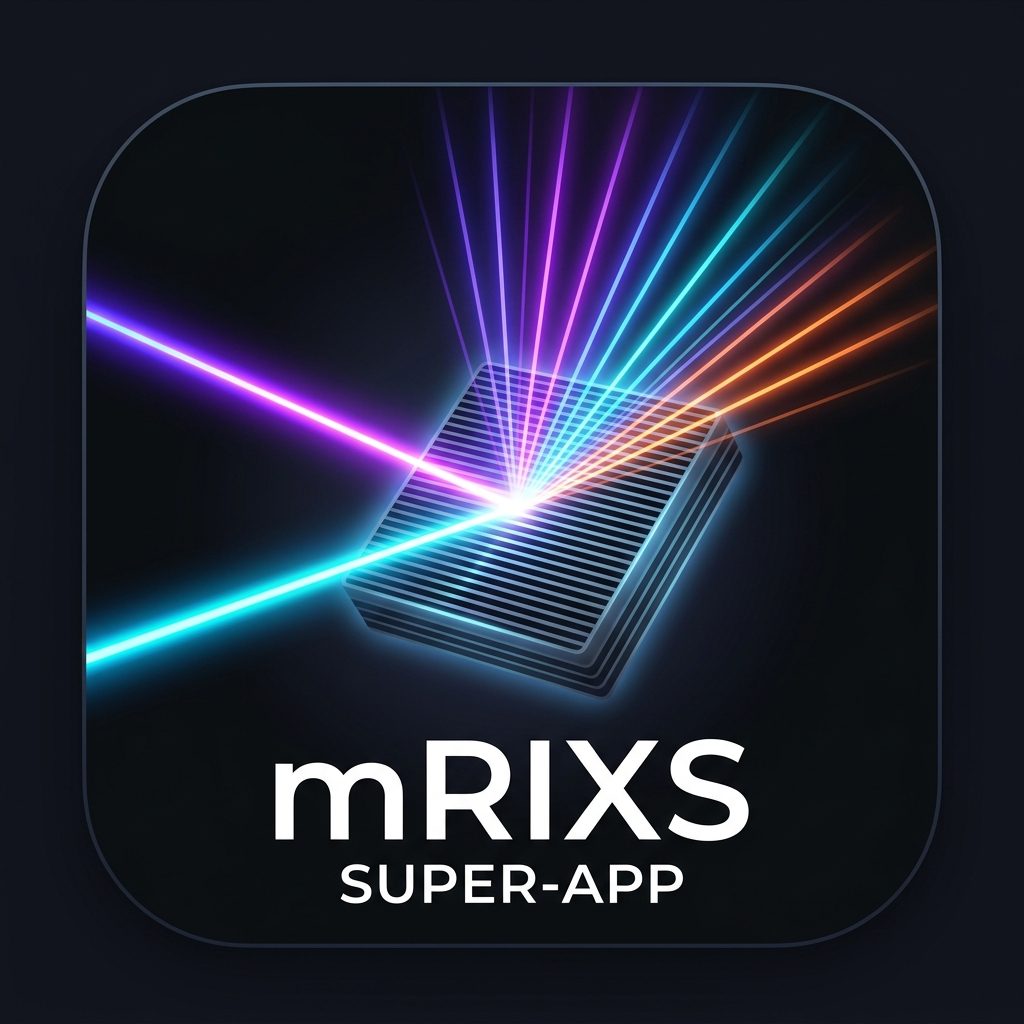
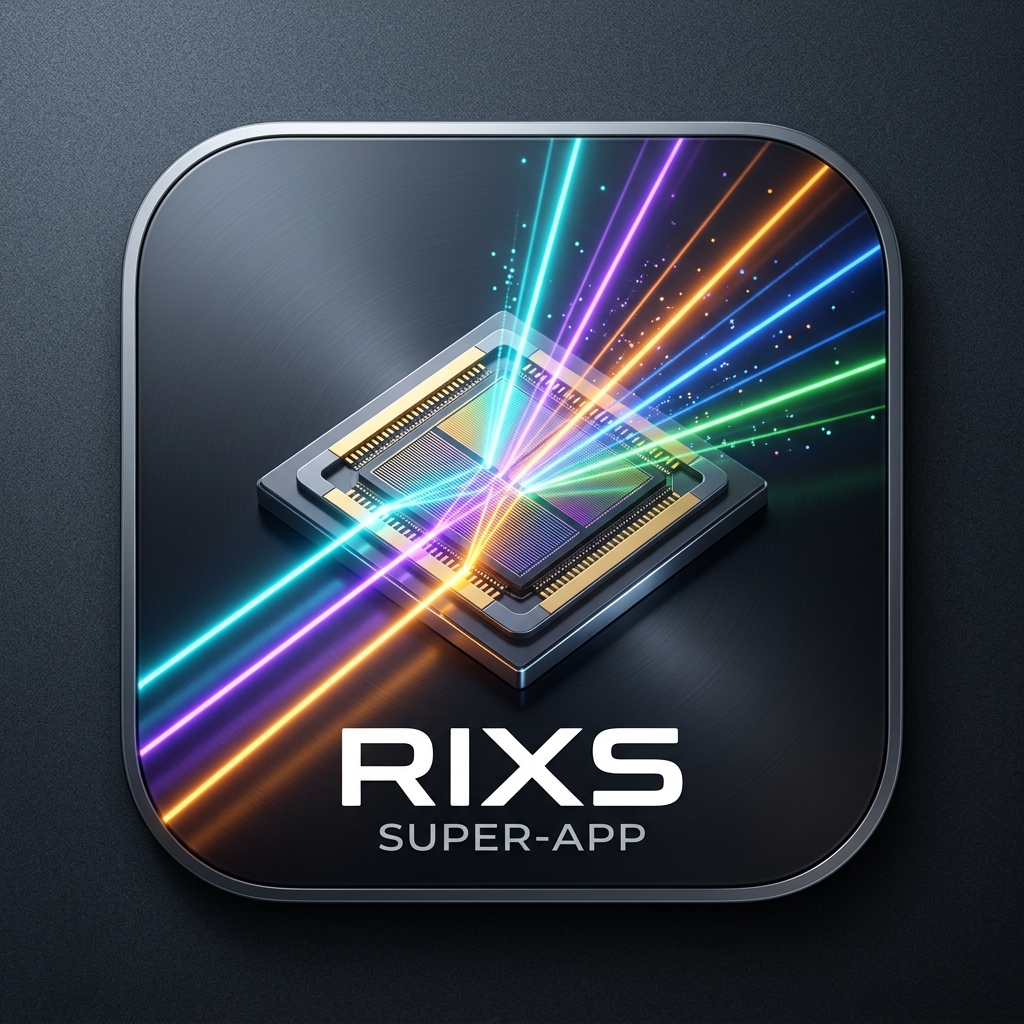
Refactor mRIXS into RIXS through entire codebase

diff --git a/rixs_app/ui/agent_sidebar/templates/chat.html b/rixs_app/ui/agent_sidebar/templates/chat.html
@@ -823,7 +823,7 @@ function clearAll() {
 <body>
     <div id="welcome-card" class="welcome-card">
         <div class="welcome-badge">🤖 Beamline AI Assistant</div>
-        <div class="welcome-title">mRIXS Co-Pilot</div>
+        <div class="welcome-title">RIXS Co-Pilot</div>
         <div class="welcome-subtitle">Directly query datasets, trigger sub-pixel alignment, and calibrate mirror pitch focus.</div>
         
         <div class="quick-chips-grid">

diff --git a/create_shortcut.py b/create_shortcut.py
@@ -1,6 +1,6 @@
 #!/usr/bin/env python3
 """
-create_shortcut.py — Automated Desktop Shortcut Creator for mRIXS Super-App.
+create_shortcut.py — Automated Desktop Shortcut Creator for RIXS Super-App.
 
 Uses `pyshortcuts` to create a cross-platform Desktop shortcut (Windows .lnk, 
 macOS .app bundle, Linux .desktop) that launches `run.py` directly without 
@@ -15,7 +15,7 @@ NOTE FOR MACOS VS WINDOWS:
 Usage:
     python3 create_shortcut.py --terminal            # Recommended on macOS
     python create_shortcut.py                         # Standard usage on Windows
-    python3 create_shortcut.py --icon rixs_app/assets/icon.png --name "mRIXS Super-App"
+    python3 create_shortcut.py --icon rixs_app/assets/icon.png --name "RIXS Super-App"
 """
 
 import sys
@@ -74,7 +74,7 @@ def fix_mac_app_icon(app_path, icon_png_path):
             import re
             content = re.sub(
                 r"<key>CFBundleIconFile</key>\s*<string>[^<]*</string>",
-                f"<key>CFBundleIconFile</key>\n    <string>{os.path.basename(icns_path if os.path.exists(icns_path) else 'mRIXS_Super-App.icns')}</string>",
+                f"<key>CFBundleIconFile</key>\n    <string>{os.path.basename(icns_path if os.path.exists(icns_path) else 'RIXS_Super-App.icns')}</string>",
                 content
             )
 
@@ -99,10 +99,10 @@ def main():
     default_icon = primary_icon if os.path.exists(primary_icon) else fallback_icon
 
     parser = argparse.ArgumentParser(
-        description="Create Desktop shortcut for mRIXS Super-App using pyshortcuts.",
+        description="Create Desktop shortcut for RIXS Super-App using pyshortcuts.",
         epilog="Note for macOS: Use --terminal flag to avoid macOS Gatekeeper Automator crashes. Windows does not need this flag."
     )
-    parser.add_argument("--name", type=str, default="mRIXS Super-App", help="Shortcut display name")
+    parser.add_argument("--name", type=str, default="RIXS Super-App", help="Shortcut display name")
     parser.add_argument("--script", type=str, default=default_script, help="Path to run.py entry point")
     parser.add_argument("--icon", type=str, default=default_icon if os.path.exists(default_icon) else None, help="Path to custom icon (.png, .ico, .icns)")
     parser.add_argument("--terminal", action="store_true", help="Launch app inside a terminal window (Recommended on macOS to bypass Gatekeeper crashes)")
@@ -146,7 +146,7 @@ def main():
             fix_mac_app_icon(app_path, icon_path)
 
         print("\n✅ Success! Desktop shortcut successfully created!")
-        print("   Lab staff can now double-click the shortcut on their Desktop to launch the mRIXS Super-App.")
+        print("   Lab staff can now double-click the shortcut on their Desktop to launch the RIXS Super-App.")
     
     except Exception as e:
         print(f"\n❌ Error creating shortcut: {e}")

diff --git a/rixs_app/main.py b/rixs_app/main.py
@@ -2,7 +2,7 @@
 
 Replaces the CustomTkinter ``RixsApp`` with a ``QMainWindow``.
 Views are managed via a ``QStackedWidget`` for zero-cost hidden frames.
-The LLM Agent Sidebar ("mRIXS Co-Pilot") is integrated as a collapsible
+The LLM Agent Sidebar ("RIXS Co-Pilot") is integrated as a collapsible
 right pane via ``QSplitter``.
 """
 
@@ -55,10 +55,10 @@ _VIEW_NAMES = {
 
 
 class RixsApp(QMainWindow):
-    """Main application window for the mRIXS Super-App.
+    """Main application window for the RIXS Super-App.
 
     Manages navigation between the 8 primary views and hosts the
-    collapsible LLM Agent Sidebar (mRIXS Co-Pilot).
+    collapsible LLM Agent Sidebar (RIXS Co-Pilot).
 
     Args:
         show_window: Whether to show the window after construction. Set
@@ -72,7 +72,7 @@ class RixsApp(QMainWindow):
             show_window: Whether to call show() at the end of __init__.
         """
         super().__init__()
-        self.setWindowTitle("mRIXS Super-App — Advanced X-ray Spectroscopy Suite")
+        self.setWindowTitle("RIXS Super-App — Advanced X-ray Spectroscopy Suite")
         self.resize(1200, 800)
 
         # Apply global dark theme
@@ -146,7 +146,7 @@ class RixsApp(QMainWindow):
         # Co-Pilot toggle button (reparented into each view's navbar on switch)
         self._sidebar_toggle = QPushButton("🤖 Co-Pilot")
         self._sidebar_toggle.setFixedHeight(28)
-        self._sidebar_toggle.setToolTip("Toggle mRIXS Co-Pilot sidebar")
+        self._sidebar_toggle.setToolTip("Toggle RIXS Co-Pilot sidebar")
         set_copilot_btn(self._sidebar_toggle)
         self._sidebar_toggle.clicked.connect(self._toggle_sidebar)
         self._stack.currentChanged.connect(self._reparent_toggle_btn)
@@ -339,7 +339,7 @@ class RixsApp(QMainWindow):
         self._sidebar.hide()
         self._sidebar_visible = False
         self._sidebar_toggle.setText("🤖 Co-Pilot")
-        self._sidebar_toggle.setToolTip("Toggle mRIXS Co-Pilot sidebar")
+        self._sidebar_toggle.setToolTip("Toggle RIXS Co-Pilot sidebar")
         self._sidebar_toggle.setStyleSheet("")
         set_copilot_btn(self._sidebar_toggle)
 

diff --git a/rixs_app/ui/sorting_view.py b/rixs_app/ui/sorting_view.py
@@ -170,7 +170,7 @@ class DragDropListWidget(QListWidget):
 
 
 class SortingView(QWidget):
-    """Main sorting/workspace view for the mRIXS Super-App.
+    """Main sorting/workspace view for the RIXS Super-App.
 
     Provides file selection, automatic natural sorting, drag-and-drop reorder,
     file removal, and buttons to launch the alignment slideshow or
@@ -244,7 +244,7 @@ class SortingView(QWidget):
         self._back_btn.clicked.connect(self._handle_back_clicked)
         self._header_row.addWidget(self._back_btn)
 
-        header_label = QLabel("mRIXS Super-App Workspace")
+        header_label = QLabel("RIXS Super-App Workspace")
         header_label.setObjectName("header_title")
         header_label.setAlignment(Qt.AlignCenter)
         self._header_row.addWidget(header_label, stretch=1)
@@ -491,7 +491,7 @@ class SortingView(QWidget):
     def show_help(self) -> None:
         """Open the help/guide dialog."""
         dlg = QDialog(self)
-        dlg.setWindowTitle("mRIXS Super-App — Guide + Credits")
+        dlg.setWindowTitle("RIXS Super-App — Guide + Credits")
         dlg.resize(660, 580)
 
         dlg_layout = QVBoxLayout(dlg)
@@ -527,7 +527,7 @@ class SortingView(QWidget):
              "• Use viridis colormap for best visibility of faint features\n"
              "• Drag files in the list to change frame alignment sequence"),
             ("Credits",
-             "mRIXS Super-App developed at Lawrence Berkeley National Laboratory.\n"
+             "RIXS Super-App developed at Lawrence Berkeley National Laboratory.\n"
              "App Credits:\n"
              "• Nickolas Yang — Computing Student Assistant"),
         ]

diff --git a/rixs_app/agent/system_prompt.py b/rixs_app/agent/system_prompt.py
@@ -1,4 +1,4 @@
-"""System prompt definitions for the mRIXS Co-Pilot LLM agent.
+"""System prompt definitions for the RIXS Co-Pilot LLM agent.
 
 Contains the base system prompt that establishes the agent's identity,
 domain knowledge, tool usage guidelines, and interaction directives.
@@ -7,8 +7,8 @@ domain knowledge, tool usage guidelines, and interaction directives.
 from __future__ import annotations
 
 BASE_SYSTEM_PROMPT = """\
-You are **mRIXS Co-Pilot**, an expert AI assistant embedded in the mRIXS Super-App, \
-a high-performance desktop application for LBNL map-RIXS beamline spectroscopy analysis.
+You are **RIXS Co-Pilot**, an expert AI assistant embedded in the RIXS Super-App, \
+a high-performance desktop application for LBNL RIXS beamline spectroscopy analysis.
 
 ## Your Capabilities
 You help beamline scientists with:
@@ -19,8 +19,7 @@ You help beamline scientists with:
 5. **GUI Parameter Tuning** — Adjusting colormaps, pipeline stages, alignment engines, and warp toggles.
 
 ## Domain Glossary
-- **RIXS**: Resonant Inelastic X-ray Scattering — a photon-in photon-out spectroscopy technique
-- **mRIXS**: Map-RIXS, a spatially-resolved RIXS variant at LBNL's Advanced Light Source
+- **RIXS**: Resonant Inelastic X-ray Scattering at LBNL's Advanced Light Source
 - **FWHM**: Full Width at Half Maximum — measures peak sharpness of the zeroth-order line
 - **Resolving Power (R)**: R = E_mono / FWHM_eV — spectral resolution metric
 - **Motor Pitch / Mirror Pitch**: Angle controlling X-ray focus position on detector

diff --git a/rixs_app/ui/agent_sidebar/sidebar_widget.py b/rixs_app/ui/agent_sidebar/sidebar_widget.py
@@ -1,4 +1,4 @@
-"""Sidebar widget for the mRIXS Co-Pilot agent."""
+"""Sidebar widget for the RIXS Co-Pilot agent."""
 from __future__ import annotations
 
 from typing import TYPE_CHECKING
@@ -27,7 +27,7 @@ class ChatInput(QTextEdit):
         super().__init__(parent)
         self.setAcceptRichText(False)
         self.setMaximumHeight(60)
-        self.setPlaceholderText("Ask mRIXS Co-Pilot...")
+        self.setPlaceholderText("Ask RIXS Co-Pilot...")
         self.setStyleSheet(f"""
             QTextEdit {{
                 background-color: {PALETTE['bg_widget']};
@@ -104,7 +104,7 @@ class AgentSidebarWidget(QWidget):
         """)
         header_frame.setLayout(header_layout)
 
-        title = QLabel("🤖 mRIXS Co-Pilot")
+        title = QLabel("🤖 RIXS Co-Pilot")
         title.setStyleSheet("font-weight: bold; font-size: 13px;")
         header_layout.addWidget(title)
 
@@ -194,7 +194,7 @@ class AgentSidebarWidget(QWidget):
             self.model_combo.view().setMinimumWidth(max(max_w, 200))
 
     def get_minimal_gui_context(self) -> str:
-        return "GUI Context: User is viewing mRIXS app."
+        return "GUI Context: User is viewing RIXS app."
 
     def _finalize_active_message(self) -> None:
         if self._current_msg_id:

diff --git a/tests/test_theme.py b/tests/test_theme.py
@@ -281,7 +281,7 @@ def test_copilot_sidebar_toggle_lifecycle(qapp):
     # Initial state
     assert rixs._sidebar_visible is False
     assert rixs._sidebar_toggle.text() == "🤖 Co-Pilot"
-    assert rixs._sidebar_toggle.toolTip() == "Toggle mRIXS Co-Pilot sidebar"
+    assert rixs._sidebar_toggle.toolTip() == "Toggle RIXS Co-Pilot sidebar"
     assert rixs._sidebar_toggle.objectName() == "copilot_btn"
     assert rixs._sidebar_toggle.styleSheet() == ""
 
@@ -297,7 +297,7 @@ def test_copilot_sidebar_toggle_lifecycle(qapp):
     rixs._hide_sidebar()
     assert rixs._sidebar_visible is False
     assert rixs._sidebar_toggle.text() == "🤖 Co-Pilot"
-    assert rixs._sidebar_toggle.toolTip() == "Toggle mRIXS Co-Pilot sidebar"
+    assert rixs._sidebar_toggle.toolTip() == "Toggle RIXS Co-Pilot sidebar"
     assert rixs._sidebar_toggle.objectName() == "copilot_btn"
     assert rixs._sidebar_toggle.styleSheet() == ""
 

diff --git a/rixs_app/ui/home_launchpad.py b/rixs_app/ui/home_launchpad.py
@@ -1,4 +1,4 @@
-"""Home Launchpad Hub view for mRIXS Super-App.
+"""Home Launchpad Hub view for RIXS Super-App.
 
 Provides an iOS-inspired 2x2 squircle grid dashboard directing users to:
 1. Detector Dark Frame Calibration (Amber #fbbf24)
@@ -172,7 +172,7 @@ class HomeLaunchpadView(QWidget):
         title_col = QVBoxLayout()
         title_col.setSpacing(4)
 
-        app_title = QLabel("mRIXS Super-App", self)
+        app_title = QLabel("RIXS Super-App", self)
         app_title.setObjectName("header_title")
 
         app_subtitle = QLabel(

diff --git a/rixs_app/ui/agent_sidebar/setup_wizard.py b/rixs_app/ui/agent_sidebar/setup_wizard.py
@@ -44,7 +44,7 @@ class CBORGSetupWizard(QDialog):
         layout.addWidget(title_label)
         
         inst_label = QLabel(
-            "The mRIXS Co-Pilot uses LBNL's CBORG API for AI-powered assistance.\n"
+            "The RIXS Co-Pilot uses LBNL's CBORG API for AI-powered assistance.\n"
             "You need a CBORG API key to use this feature."
         )
         inst_label.setWordWrap(True)

diff --git a/tests/conftest.py b/tests/conftest.py
@@ -1,4 +1,4 @@
-"""Global pytest configuration and session fixtures for mRIXS Super-App test suite.
+"""Global pytest configuration and session fixtures for RIXS Super-App test suite.
 
 Configures Qt to run strictly in offscreen/headless mode to prevent UI windows from popping up
 or stealing focus during test execution on macOS / Linux / Windows.

diff --git a/rixs_app/ui/theme.py b/rixs_app/ui/theme.py
@@ -1,4 +1,4 @@
-"""Centralized dark theme definitions for the mRIXS Super-App PySide6 GUI.
+"""Centralized dark theme definitions for the RIXS Super-App PySide6 GUI.
 
 All color constants, stylesheet strings, and helper factories live here so that
 every widget can be styled consistently without scattering magic hex values

diff --git a/tests/e2e/test_phase2_e2e_boundaries.py b/tests/e2e/test_phase2_e2e_boundaries.py
@@ -1,4 +1,4 @@
-"""End-to-End Boundary, Limits, and Error Recovery Test Suite for Phase 2 (mRIXS Super-App).
+"""End-to-End Boundary, Limits, and Error Recovery Test Suite for Phase 2 (RIXS Super-App).
 
 Covers edge cases, limit values, and adversarial condition handling across:
 1. Calibration Store Edge & Corrupted Cases
